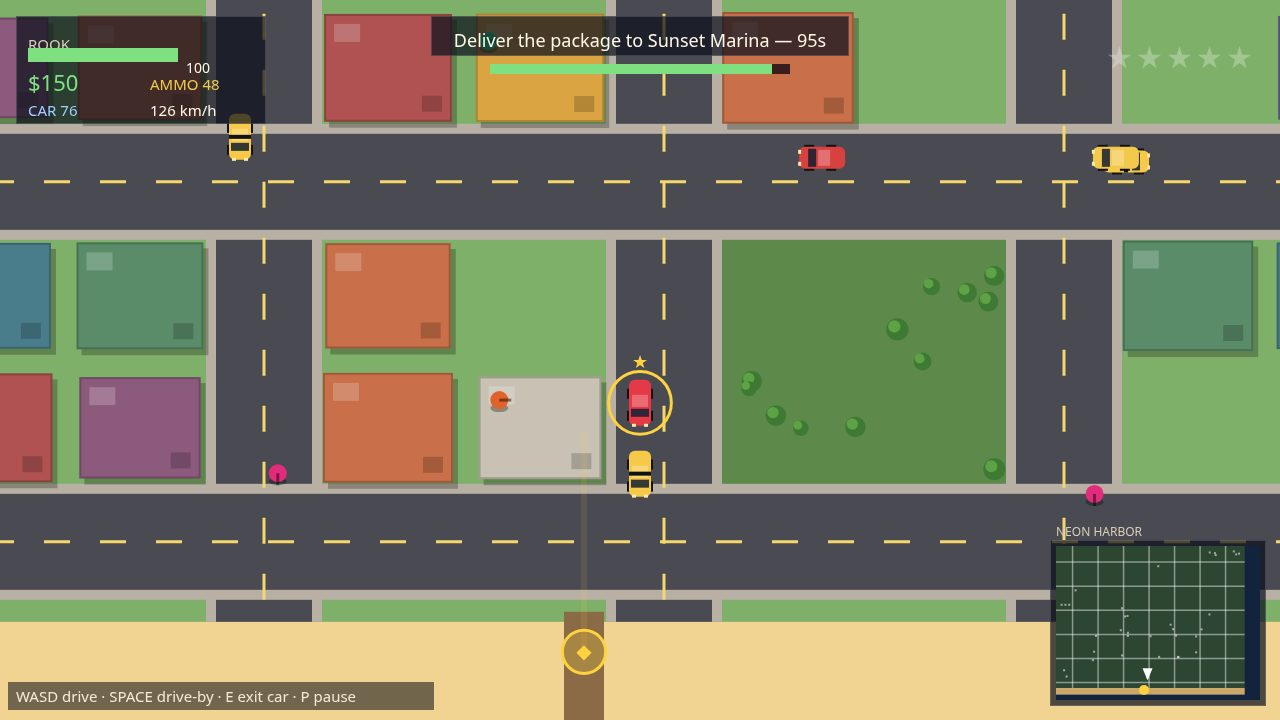
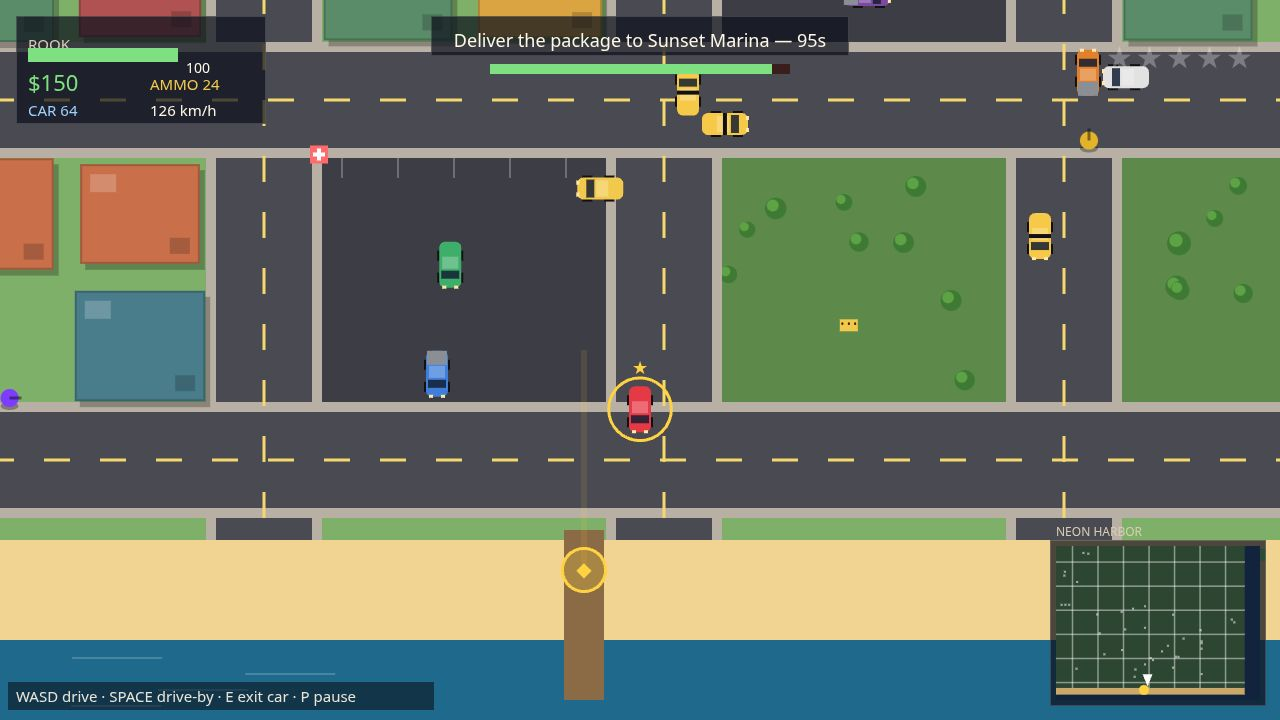
Neon Harbor: chase re-stage, repair kits, E-press fix
- Re-stage the chase shot: clean high-speed pursuit down avenue 1460
  (player at speed, corridor cleared, two patrol cars trailing in
  formation, wanted 3) instead of the old intersection pile-up
- Cover is now the chase (wanted level + police + mission + minimap in
  one frame); title screen moves last
- Heist shot: shorter run, tracer stream on the last steps, one Viper
  still standing so the fight reads, not just its aftermath
- New depth: blue wrench repair kits (+40 car health, car only — ignored
  on foot), scattered and respawning
- Fix: one E press could steal then instantly un-steal a car when a
  slow frame caught up several steps; one-shot presses now apply to the
  frame's first step only (found by the scripted playtest)
- Screenshots re-rendered deterministically (byte-identical across runs);
  kit check 4 passed, 0 failed; playtest 17/17 pass, no page errors

diff --git a/game/src/shots.js b/game/src/shots.js
@@ -4,16 +4,16 @@
 // who aims at the nearest Viper), so the frame is what a short game
 // really looks like and the same seed always gives the same frame.
 
-import { STEP, ROAD } from './config.js';
+import { STEP, ROAD, PALETTE } from './config.js';
 import { resetGame, stepWorld } from './world.js';
-import { startMission } from './missions.js';
-import { landmarkPoint } from './city.js';
+import { startMission, spawnViper } from './missions.js';
+import { landmarkPoint, blockedAt } from './city.js';
 import { SCREEN_TITLE, SCREEN_PLAY } from './render.js';
 
 const START_SECONDS = 5;
 const DRIVE_SECONDS = 6;
-const CHASE_SECONDS = 5;
-const HEIST_SECONDS = 4;
+const CHASE_SECONDS = 2.5;
+const HEIST_SECONDS = 3;
 
 /** Steer a car toward a point: returns the { mx, my } the loop feeds in. */
 function driveToward(car, tx, ty) {
@@ -87,6 +87,76 @@ function stageDrive(state) {
   return { screen: SCREEN_PLAY, extra: { missionsDone: 0, earned: 0, hasSave: false, endKind: null } };
 }
 
+function makePoliceCar(id, x, y) {
+  return {
+    id,
+    x, y,
+    angle: Math.PI / 2,
+    speed: 315,
+    cruise: 315,
+    kind: 'police',
+    color: PALETTE.police,
+    health: 140,
+    maxHealth: 140,
+    driver: 'police',
+    axis: 'v',
+    line: 1460,
+    dir: 1,
+    stopped: false,
+    siren: 0,
+  };
+}
+
+function makeFootCop(x, y) {
+  return {
+    x, y,
+    angle: 0,
+    speed: 168,
+    color: PALETTE.police,
+    kind: 'cop',
+    health: 100,
+    state: 'walk',
+    fleeT: 0,
+    downT: 0,
+    axis: 'h',
+    dir: 1,
+    waitT: 0,
+    fareDest: null,
+    fareTimer: 0,
+    arrestT: 0,
+    shootT: 1,
+  };
+}
+
+/**
+ * Move every car out of the chase corridor (the avenue the run uses, and
+ * the two streets it crosses) onto roads the camera never sees, so the
+ * frame is a pursuit and not a pile-up. Parked cars go to the far avenue's
+ * edge; traffic keeps driving, just elsewhere.
+ */
+function clearChaseCorridor(state, avenue) {
+  for (const other of state.cars) {
+    // The patrol cars are staged separately, and the player's own car is
+    // the one the corridor is cleared for — neither moves.
+    if (other.driver === 'police' || other.driver === 'player') continue;
+    const onAvenue = other.axis === 'v' && other.line === avenue;
+    const crosses = other.axis === 'h' && (other.line === 600 || other.line === 960);
+    const parkedInCorridor = other.driver !== 'traffic'
+      && Math.abs(other.x - avenue) < 90 && other.y > 120 && other.y < 1500;
+    if (!onAvenue && !crosses && !parkedInCorridor) continue;
+    if (other.driver === 'traffic') {
+      other.axis = 'v';
+      other.line = 2260;
+      other.dir = 1;
+      other.x = 2236;
+      other.angle = Math.PI / 2;
+    } else {
+      other.x = 2260 + 62;
+      other.angle = Math.PI / 2;
+    }
+  }
+}
+
 function stageChase(state) {
   resetGame(state);
   startMission(state, 0);
@@ -94,18 +164,49 @@ function stageChase(state) {
   state.player.x = garage.x;
   state.player.y = garage.y;
   stepWorld(state, STEP, idleInput());
-  putPlayerInSportCar(state, 1060, 500);
+  // A clean high-speed pursuit down one long avenue: the Comet GT already
+  // rolling at speed, two patrol cars trailing in formation behind it.
+  const AVENUE = 1460;
+  const car = putPlayerInSportCar(state, AVENUE, 300);
+  car.speed = 300;
+  car.health = 78; // dented by the chase so far, not fresh off the lot
+  clearChaseCorridor(state, AVENUE);
+  // Two patrol cars on the player's tail, and two foot cops far away, so
+  // the department's wanted-3 response is full and no surprise unit
+  // spawns into the frame mid-run.
+  state.cars.push(makePoliceCar(9001, AVENUE - 24, 100));
+  state.cars.push(makePoliceCar(9002, AVENUE + 24, 60));
+  state.peds.push(makeFootCop(300, 300));
+  state.peds.push(makeFootCop(340, 340));
   state.wanted = 3;
   state.quietTime = 0;
   for (let i = 0; i < CHASE_SECONDS / STEP; i += 1) {
-    const car = state.cars.find((c) => c.id === state.player.inCar);
-    if (!car) break;
-    const input = driveToward(car, 1036, car.y + 500);
-    input.aim = car.angle;
+    const c = state.cars.find((cc) => cc.id === state.player.inCar);
+    if (!c) break;
+    const input = driveToward(c, AVENUE, c.y + 500);
+    input.aim = c.angle;
     input.firing = false;
     input.shootPressed = false;
     input.enter = false;
     stepWorld(state, STEP, input);
+  }
+  // Hold the pursuit in frame: the patrol cars settle into formation
+  // behind the Comet GT for the shot, light bars flashing.
+  const pc = state.cars.find((cc) => cc.id === state.player.inCar);
+  if (pc) {
+    const followers = state.cars.filter((cc) => cc.driver === 'police' && (cc.id === 9001 || cc.id === 9002));
+    if (followers[0]) {
+      followers[0].x = pc.x - 24;
+      followers[0].y = pc.y - 210;
+      followers[0].angle = Math.PI / 2;
+      followers[0].speed = 315;
+    }
+    if (followers[1]) {
+      followers[1].x = pc.x + 24;
+      followers[1].y = pc.y - 330;
+      followers[1].angle = Math.PI / 2;
+      followers[1].speed = 315;
+    }
   }
   return { screen: SCREEN_PLAY, extra: { missionsDone: 0, earned: 0, hasSave: false, endKind: null } };
 }
@@ -118,12 +219,27 @@ function stageHeist(state) {
   state.player.x = casino.x;
   state.player.y = casino.y;
   for (let i = 0; i < 30; i += 1) stepWorld(state, STEP, idleInput());
-  for (let i = 0; i < HEIST_SECONDS / STEP; i += 1) {
+  const steps = HEIST_SECONDS / STEP;
+  for (let i = 0; i < steps; i += 1) {
     const viper = nearestViper(state);
     const aim = viper ? Math.atan2(viper.y - state.player.y, viper.x - state.player.x) : state.player.angle;
     const input = { mx: 0, my: 0, aim, firing: !!viper, shootPressed: false, enter: false };
-    if (i === Math.floor(HEIST_SECONDS / STEP) - 1) state.fireCooldown = 0;
+    // A stream of tracers in the frame: fire on the last steps, not just one.
+    if (i >= steps - 3) state.fireCooldown = 0;
     stepWorld(state, STEP, input);
+  }
+  // One Viper still standing and closing in, so the fight reads in the
+  // frame instead of only its aftermath.
+  const spots = [
+    { x: state.player.x + 150, y: state.player.y - 90 },
+    { x: state.player.x - 150, y: state.player.y - 60 },
+    { x: state.player.x + 90, y: state.player.y + 150 },
+  ];
+  for (const spot of spots) {
+    if (!blockedAt(state.city, spot.x, spot.y, 12)) {
+      spawnViper(state, spot.x, spot.y);
+      break;
+    }
   }
   return { screen: SCREEN_PLAY, extra: { missionsDone: 0, earned: 0, hasSave: false, endKind: null } };
 }

diff --git a/game/src/world.js b/game/src/world.js
@@ -37,7 +37,8 @@ function makeCar(state, spot, driver) {
 }
 
 function scatterPickups(state) {
-  const kinds = ['cash', 'cash', 'cash', 'health', 'ammo'];
+  // Cash, health, ammo — and blue wrench kits that patch a battered car.
+  const kinds = ['cash', 'cash', 'cash', 'health', 'ammo', 'repair'];
   for (let i = 0; i < 14; i += 1) {
     const kind = kinds[i % kinds.length];
     const x = state.random.range(120, WORLD.width - 120);
@@ -45,7 +46,7 @@ function scatterPickups(state) {
     if (blockedAt(state.city, x, y, 10)) continue;
     state.pickups.push({
       x, y, kind,
-      amount: kind === 'cash' ? state.random.int(25, 100) : kind === 'health' ? 30 : 24,
+      amount: kind === 'cash' ? state.random.int(25, 100) : kind === 'health' ? 30 : kind === 'repair' ? 40 : 24,
       missionCash: false,
       bob: state.random.range(0, Math.PI * 2),
     });
@@ -452,6 +453,15 @@ function updatePickups(state, dt) {
     } else if (pickup.kind === 'health') {
       player.health = Math.min(PLAYER.health, player.health + pickup.amount);
       state.audio.pickup();
+    } else if (pickup.kind === 'repair') {
+      // A repair kit only works behind the wheel: on foot it stays on the
+      // street for the next time Rook has a car.
+      const car = player.inCar ? state.cars.find((c) => c.id === player.inCar) : null;
+      if (!car) continue;
+      car.health = Math.min(car.maxHealth, car.health + pickup.amount);
+      state.message = `Car repaired +${pickup.amount}.`;
+      state.messageT = 2;
+      state.audio.pickup();
     } else if (pickup.kind === 'ammo') {
       player.ammo = Math.min(PLAYER.maxAmmo, player.ammo + pickup.amount);
       state.audio.pickup();
@@ -462,13 +472,13 @@ function updatePickups(state, dt) {
   if (state.pickupTimer <= 0) {
     state.pickupTimer = 22;
     if (state.pickups.filter((p) => !p.missionCash).length < 14) {
-      const kind = state.random.pick(['cash', 'cash', 'health', 'ammo']);
+      const kind = state.random.pick(['cash', 'cash', 'health', 'ammo', 'repair']);
       const x = state.random.range(120, WORLD.width - 120);
       const y = state.random.range(120, WORLD.height - 120);
       if (!blockedAt(state.city, x, y, 10)) {
         state.pickups.push({
           x, y, kind,
-          amount: kind === 'cash' ? state.random.int(25, 100) : kind === 'health' ? 30 : 24,
+          amount: kind === 'cash' ? state.random.int(25, 100) : kind === 'health' ? 30 : kind === 'repair' ? 40 : 24,
           missionCash: false,
           bob: 0,
         });

diff --git a/game/src/main.js b/game/src/main.js
@@ -124,7 +124,7 @@ function runGame() {
     return actions;
   }
 
-  function stepGame(actions) {
+  function stepGame(actions, firstStep) {
     const mouse = input.mouse();
     const aimPoint = renderer.worldPoint(mouse.x, mouse.y, state);
     const aim = Math.atan2(aimPoint.y - state.player.y, aimPoint.x - state.player.x);
@@ -133,8 +133,8 @@ function runGame() {
       my: input.moveY(),
       aim,
       firing: input.firing() || input.spaceHeld(),
-      shootPressed: !!(actions & ACTION_SHOOT),
-      enter: !!(actions & ACTION_ENTER),
+      shootPressed: firstStep && !!(actions & ACTION_SHOOT),
+      enter: firstStep && !!(actions & ACTION_ENTER),
       attract: false,
     };
     stepWorld(state, STEP, playInput);
@@ -158,8 +158,13 @@ function runGame() {
         accumulator -= STEP;
       }
     } else if (screen === SCREEN_PLAY) {
+      // One-shot presses (enter/exit a car, shoot) belong to the frame's
+      // first step only: a slow frame that catches up several steps must
+      // not press E twice and steal, then instantly un-steal, a car.
+      let firstStep = true;
       while (accumulator >= STEP && screen === SCREEN_PLAY) {
-        stepGame(actions);
+        stepGame(actions, firstStep);
+        firstStep = false;
         accumulator -= STEP;
       }
     } else {

diff --git a/game/src/render.js b/game/src/render.js
@@ -229,6 +229,25 @@ export function createRenderer(canvas) {
         context.fillStyle = PALETTE.cash;
         context.fillRect(pickup.x - 9, y - 6, 18, 12);
         text('$', pickup.x, y, 13, '#0b3d1e', 'center', 'middle');
+      } else if (pickup.kind === 'repair') {
+        // A blue wrench kit: drive over it to patch the car up.
+        context.fillStyle = PALETTE.repair;
+        context.beginPath();
+        context.roundRect(pickup.x - 9, y - 9, 18, 18, 4);
+        context.fill();
+        context.save();
+        context.translate(pickup.x, y);
+        context.rotate(-Math.PI / 4);
+        context.strokeStyle = '#ffffff';
+        context.lineWidth = 2.5;
+        context.beginPath();
+        context.moveTo(-6, 6);
+        context.lineTo(3, -3);
+        context.stroke();
+        context.beginPath();
+        context.arc(5, -5, 3.5, -0.6, Math.PI * 1.4);
+        context.stroke();
+        context.restore();
       } else if (pickup.kind === 'health') {
         context.fillStyle = PALETTE.health;
         context.fillRect(pickup.x - 9, y - 9, 18, 18);

diff --git a/main.ts b/main.ts
@@ -17,7 +17,9 @@
 // carjacking, a five-star wanted level with police cars and foot cops, six
 // story missions, combat, a HUD with a minimap, and a localStorage save.
 // The four screenshots in screenshots/ are real renders of the game, taken
-// in headless Chromium from game/index.html?shot=<scene>&seed=1.
+// in headless Chromium from game/index.html?shot=<scene>&seed=1 — the cover
+// is the police chase (wanted level, patrol cars, mission and minimap in one
+// frame), then the drive, the vault job and the title screen.
 import { cpSync, existsSync, mkdirSync, writeFileSync } from 'node:fs';
 import { join } from 'node:path';
 import { fileURLToPath } from 'node:url';

diff --git a/game/src/missions.js b/game/src/missions.js
@@ -104,7 +104,7 @@ function openPoint(state, x, y, minDist, maxDist) {
   return { x, y };
 }
 
-function spawnViper(state, x, y) {
+export function spawnViper(state, x, y) {
   const ped = {
     x, y,
     angle: state.random.range(0, Math.PI * 2),

diff --git a/game/src/config.js b/game/src/config.js
@@ -114,6 +114,7 @@ export const PALETTE = {
   markerBad: '#ff4d4d',
   cash: '#7ee081',
   health: '#ff6b6b',
+  repair: '#2b8ce2',
   ammo: '#f2c94c',
 };
 

diff --git a/README.md b/README.md
@@ -6,7 +6,7 @@
 
 Neon Harbor is an original open-world crime game in the spirit of the classics, built from scratch: explore a sun-soaked coastal city on foot and by car, steal cars and outrun the Harbor Police, take fares, and run six story missions for Mara Voss and Dex Marlow — from a first delivery to the Meridian Casino vault job and the final run to Mara's yacht.
 
-The city is alive: traffic drives the road grid, pedestrians walk the sidewalks and flee gunfire, the wanted level brings foot cops and patrol cars, and the HUD carries your health, money, ammo, wanted stars, mission objective and a live minimap. Save your progress and keep roaming after the story ends.
+The city is alive: traffic drives the road grid, pedestrians walk the sidewalks and flee gunfire, the wanted level brings foot cops and patrol cars, and the HUD carries your health, money, ammo, wanted stars, mission objective and a live minimap. Blue wrench kits on the street patch up a battered car — drive over one while it still runs. Save your progress and keep roaming after the story ends.
 
 ## Run it
 
